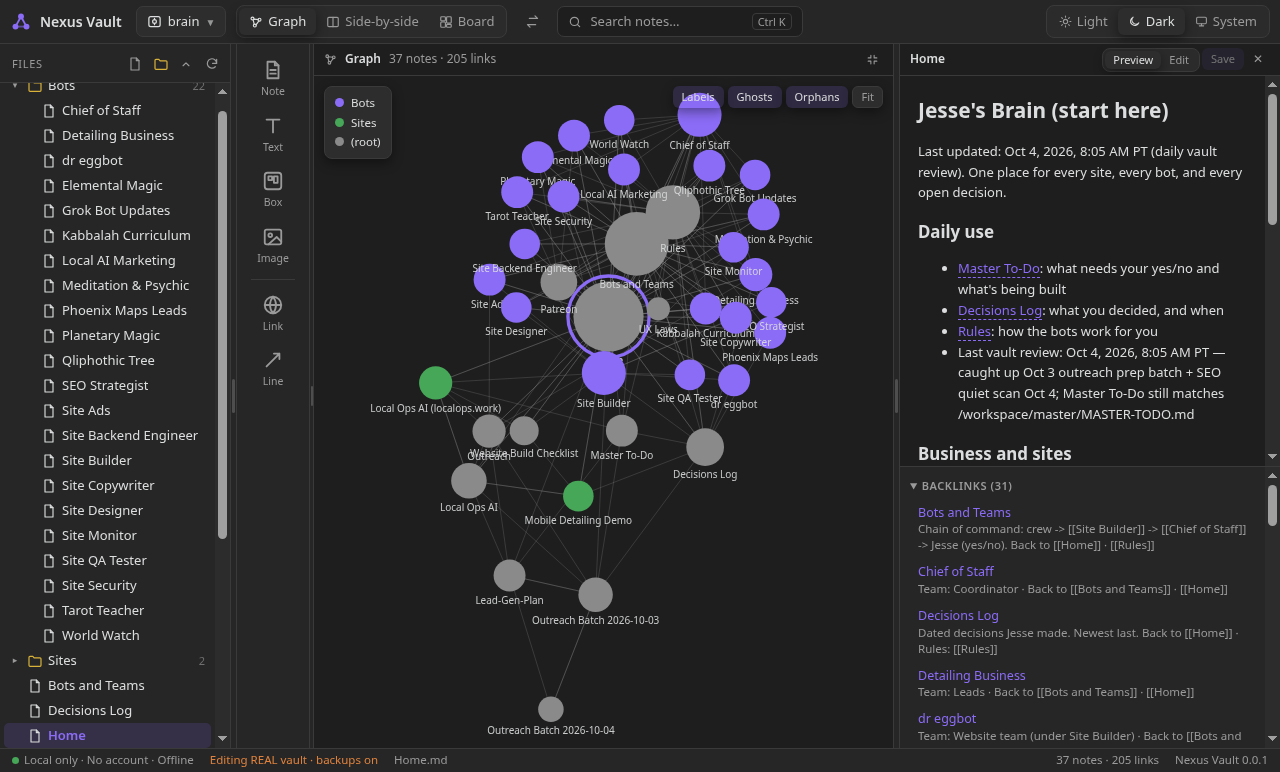
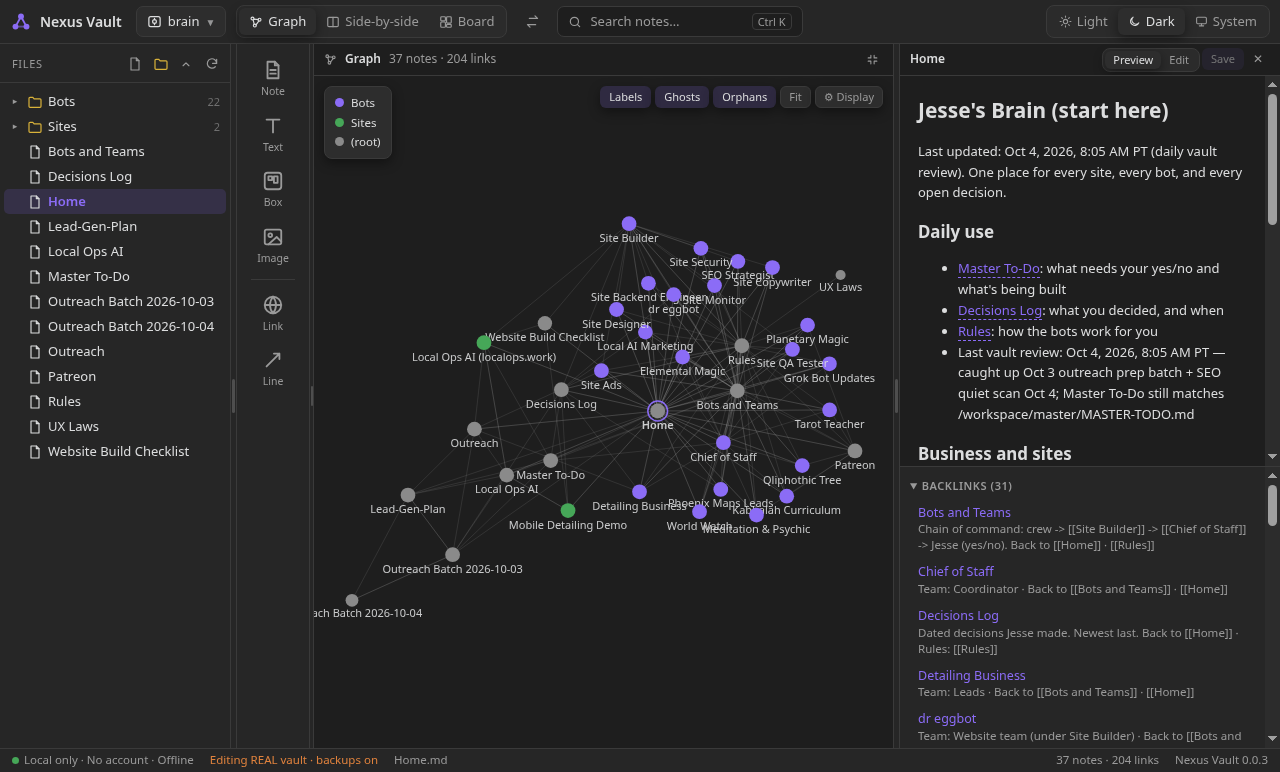
Graph: Obsidian-like small nodes, node size + link thickness sliders, v0.0.3 (Grok Bot)

diff --git a/src/renderer/src/components/GraphPane.tsx b/src/renderer/src/components/GraphPane.tsx
@@ -18,11 +18,15 @@ interface Props {
   dark: boolean;
   selected: string | null;
   focus: { rel: string; n: number } | null;
+  nodeSize: number;
+  linkWidth: number;
+  onSizes: (p: { graphNodeSize?: number; graphLinkWidth?: number }, persist?: boolean) => void;
 }
 
 const idOf = (v: string | N) => (typeof v === 'string' ? v : (v.id as string));
 
-export function GraphPane({ view, onMax, dark, selected, focus }: Props) {
+export function GraphPane({ view, onMax, dark, selected, focus, nodeSize, linkWidth, onSizes }: Props) {
+  const [showSettings, setShowSettings] = useState(false);
   const app = useApp();
   const wrapRef = useRef<HTMLDivElement>(null);
   const fgRef = useRef<ForceGraphMethods<N, L>>();
@@ -93,7 +97,7 @@ export function GraphPane({ view, onMax, dark, selected, focus }: Props) {
     const n = prevNodes.current.get(focus.rel);
     if (!fg || !n || n.x === undefined || n.y === undefined) return;
     fg.centerAt(n.x, n.y, 600);
-    fg.zoom(Math.max(2.2, fg.zoom()), 600);
+    fg.zoom(Math.max(2, fg.zoom()), 600);
     setHover(focus.rel);
     const t = setTimeout(() => setHover(null), 2500);
     return () => clearTimeout(t);
@@ -109,7 +113,10 @@ export function GraphPane({ view, onMax, dark, selected, focus }: Props) {
     const d = app.graph.nodes.map((n) => n.degree).sort((a, b) => b - a);
     return Math.max(4, d[Math.floor(d.length * 0.12)] ?? 4);
   }, [app.graph]);
-  const nodeR = (n: N) => 3 + Math.sqrt(n.degree ?? 0) * 1.6;
+  // Obsidian-like sizing: ~3px base on screen, growing gently (log) with links, capped at ~2x for hubs.
+  // Radius is computed in screen pixels and only grows slowly when zooming in (scale^0.3).
+  const nodePx = (n: N) => nodeSize * (3 + Math.min(3, 1.1 * Math.log2(1 + (n.degree ?? 0))));
+  const nodeR = (n: N, scale: number) => (nodePx(n) * Math.pow(scale, 0.3)) / scale;
 
   return (
     <section className="pane" style={{ flex: 1 }} data-pane="graph">
@@ -134,6 +141,26 @@ export function GraphPane({ view, onMax, dark, selected, focus }: Props) {
           <button className="chipbtn" onClick={() => fgRef.current?.zoomToFit(400, 30)} title="Zoom to fit">
             Fit
           </button>
+          <button className={`chipbtn${showSettings ? ' on' : ''}`} onClick={() => setShowSettings(!showSettings)} title="Node size and link thickness" data-testid="graph-settings">
+            ⚙ Display
+          </button>
+          {showSettings && (
+            <div className="gsettings" onPointerDown={(e) => e.stopPropagation()}>
+              <label>
+                <span>Node size</span>
+                <input type="range" min={0.3} max={3} step={0.05} value={nodeSize} onChange={(e) => onSizes({ graphNodeSize: Number(e.target.value) }, false)} onPointerUp={(e) => onSizes({ graphNodeSize: Number((e.target as HTMLInputElement).value) })} onKeyUp={(e) => onSizes({ graphNodeSize: Number((e.target as HTMLInputElement).value) })} data-testid="node-size" />
+                <b>{nodeSize.toFixed(1)}×</b>
+              </label>
+              <label>
+                <span>Link thickness</span>
+                <input type="range" min={0.3} max={3} step={0.05} value={linkWidth} onChange={(e) => onSizes({ graphLinkWidth: Number(e.target.value) }, false)} onPointerUp={(e) => onSizes({ graphLinkWidth: Number((e.target as HTMLInputElement).value) })} onKeyUp={(e) => onSizes({ graphLinkWidth: Number((e.target as HTMLInputElement).value) })} />
+                <b>{linkWidth.toFixed(1)}×</b>
+              </label>
+              <button className="linkbtn" onClick={() => onSizes({ graphNodeSize: 1, graphLinkWidth: 1 })}>
+                Reset
+              </button>
+            </div>
+          )}
         </div>
         {folders.length > 0 && (
           <div className="legend">
@@ -179,8 +206,8 @@ export function GraphPane({ view, onMax, dark, selected, focus }: Props) {
             }
           }}
           linkColor={(l) => (hover && (idOf(l.source) === hover || idOf(l.target) === hover) ? colors.linkHl : colors.link)}
-          linkWidth={(l) => (hover && (idOf(l.source) === hover || idOf(l.target) === hover) ? 1.8 : 0.8)}
-          linkDirectionalArrowLength={(l) => (hover && (idOf(l.source) === hover || idOf(l.target) === hover) ? 4 : 0)}
+          linkWidth={(l) => linkWidth * (hover && (idOf(l.source) === hover || idOf(l.target) === hover) ? 1.6 : 0.6)}
+          linkDirectionalArrowLength={(l) => (hover && (idOf(l.source) === hover || idOf(l.target) === hover) ? 2.5 : 0)}
           linkDirectionalArrowRelPos={0.92}
           onNodeHover={(n) => {
             setHover(n ? (n.id as string) : null);
@@ -211,7 +238,7 @@ export function GraphPane({ view, onMax, dark, selected, focus }: Props) {
           }}
           nodeCanvasObject={(n, ctx, scale) => {
             const id = n.id as string;
-            const r = nodeR(n);
+            const r = nodeR(n, scale);
             const dim = hl && id !== hover && !hl.has(id);
             const color = n.ghost ? colors.ghost : folderColor(n.folder, folders);
             ctx.globalAlpha = dim ? 0.15 : 1;
@@ -222,33 +249,35 @@ export function GraphPane({ view, onMax, dark, selected, focus }: Props) {
             if (n.ghost) {
               ctx.strokeStyle = colors.text;
               ctx.globalAlpha *= 0.4;
-              ctx.lineWidth = 0.6;
+              ctx.lineWidth = 0.8 / scale;
               ctx.stroke();
               ctx.globalAlpha = dim ? 0.15 : 1;
             }
             if (id === selected || id === hover) {
               ctx.beginPath();
-              ctx.arc(n.x!, n.y!, r + 2.5, 0, 2 * Math.PI);
+              ctx.arc(n.x!, n.y!, r + 2.5 / scale, 0, 2 * Math.PI);
               ctx.strokeStyle = '#8b6cf6';
-              ctx.lineWidth = 1.5;
+              ctx.lineWidth = 1.5 / scale;
               ctx.stroke();
             }
             const important = id === hover || id === selected || (hl && hl.has(id));
-            if (showLabels && (important || scale > 2.2 || (n.degree ?? 0) >= labelDegree)) {
-              const fs = Math.max(10 / scale, 2.5);
+            // Labels: constant ~11px on screen (independent of node size); non-highlighted labels fade out when zoomed out.
+            const fade = important ? 1 : Math.max(0, Math.min(1, (scale - 0.6) / 0.8));
+            if (showLabels && fade > 0.02 && (important || scale > 1.8 || (n.degree ?? 0) >= labelDegree)) {
+              const fs = 11 / scale;
               ctx.font = `${important ? 600 : 400} ${fs}px "Segoe UI", system-ui, sans-serif`;
               ctx.textAlign = 'center';
               ctx.textBaseline = 'top';
               ctx.fillStyle = colors.text;
-              ctx.globalAlpha = dim ? 0.15 : n.ghost ? 0.55 : 0.9;
-              ctx.fillText(n.title, n.x!, n.y! + r + 2);
+              ctx.globalAlpha = (dim ? 0.15 : n.ghost ? 0.55 : 0.9) * fade;
+              ctx.fillText(n.title, n.x!, n.y! + r + 2 / scale);
             }
             ctx.globalAlpha = 1;
           }}
-          nodePointerAreaPaint={(n, color, ctx) => {
+          nodePointerAreaPaint={(n, color, ctx, scale) => {
             ctx.fillStyle = color;
             ctx.beginPath();
-            ctx.arc(n.x!, n.y!, nodeR(n) + 2, 0, 2 * Math.PI);
+            ctx.arc(n.x!, n.y!, nodeR(n, scale) + 3 / scale, 0, 2 * Math.PI);
             ctx.fill();
           }}
         />

diff --git a/src/renderer/src/styles.css b/src/renderer/src/styles.css
@@ -308,3 +308,8 @@ body.resizing, body.resizing * { cursor: col-resize !important; user-select: non
 .progress .bar i { display: block; height: 100%; background: var(--accent); transition: width .2s; }
 .progress .bar i.indet { animation: indet 1.2s ease-in-out infinite; }
 @keyframes indet { 0% { margin-left: -30%; } 100% { margin-left: 100%; } }
+.gsettings { flex-basis: 100%; background: var(--card); border: 1px solid var(--border); border-radius: 8px; box-shadow: var(--shadow2); padding: 8px 10px; display: flex; flex-direction: column; gap: 6px; font-size: 11.5px; min-width: 220px; }
+.gsettings label { display: grid; grid-template-columns: 90px 1fr 34px; align-items: center; gap: 6px; }
+.gsettings input[type=range] { accent-color: var(--accent); width: 100%; }
+.gsettings b { font-weight: 500; color: var(--muted); text-align: right; }
+.gsettings .linkbtn { align-self: flex-end; }

diff --git a/src/renderer/src/App.tsx b/src/renderer/src/App.tsx
@@ -296,7 +296,7 @@ export function App() {
       readOnly={vault?.readOnly}
     />
   );
-  const graphPane = <GraphPane view={layout.view} onMax={maxToggle('graph')} dark={resolved === 'dark'} selected={selected} focus={graphFocus} />;
+  const graphPane = <GraphPane view={layout.view} onMax={maxToggle('graph')} dark={resolved === 'dark'} selected={selected} focus={graphFocus} nodeSize={layout.graphNodeSize} linkWidth={layout.graphLinkWidth} onSizes={(p, persist) => setLayout(p, persist)} />;
   const [left, right] = layout.paneOrder === 'board-graph' ? [board, graphPane] : [graphPane, board];
 
   const mainWidth = () => mainRef.current?.clientWidth ?? 1000;

diff --git a/src/main/pure.ts b/src/main/pure.ts
@@ -77,6 +77,8 @@ export function normalizeSettings(raw: unknown): Settings {
       view: l.view === 'graph' || l.view === 'board' ? l.view : 'split',
       notePanelOpen: typeof l.notePanelOpen === 'boolean' ? l.notePanelOpen : DEFAULT_LAYOUT.notePanelOpen,
       notePanelWidth: clamp(l.notePanelWidth, LIMITS.noteMin, LIMITS.noteMax, DEFAULT_LAYOUT.notePanelWidth),
+      graphNodeSize: clamp(l.graphNodeSize, 0.3, 3, DEFAULT_LAYOUT.graphNodeSize),
+      graphLinkWidth: clamp(l.graphLinkWidth, 0.3, 3, DEFAULT_LAYOUT.graphLinkWidth),
     },
   };
 }

diff --git a/src/shared/types.ts b/src/shared/types.ts
@@ -11,6 +11,8 @@ export interface LayoutSettings {
   view: ViewMode;
   notePanelOpen: boolean;
   notePanelWidth: number;
+  graphNodeSize: number; // multiplier, 0.3..3
+  graphLinkWidth: number; // multiplier, 0.3..3
 }
 
 export type VaultMode = 'notes' | 'code';
@@ -82,6 +84,8 @@ export const DEFAULT_LAYOUT: LayoutSettings = {
   view: 'split',
   notePanelOpen: false,
   notePanelWidth: 380,
+  graphNodeSize: 1,
+  graphLinkWidth: 1,
 };
 
 export const LIMITS = {
